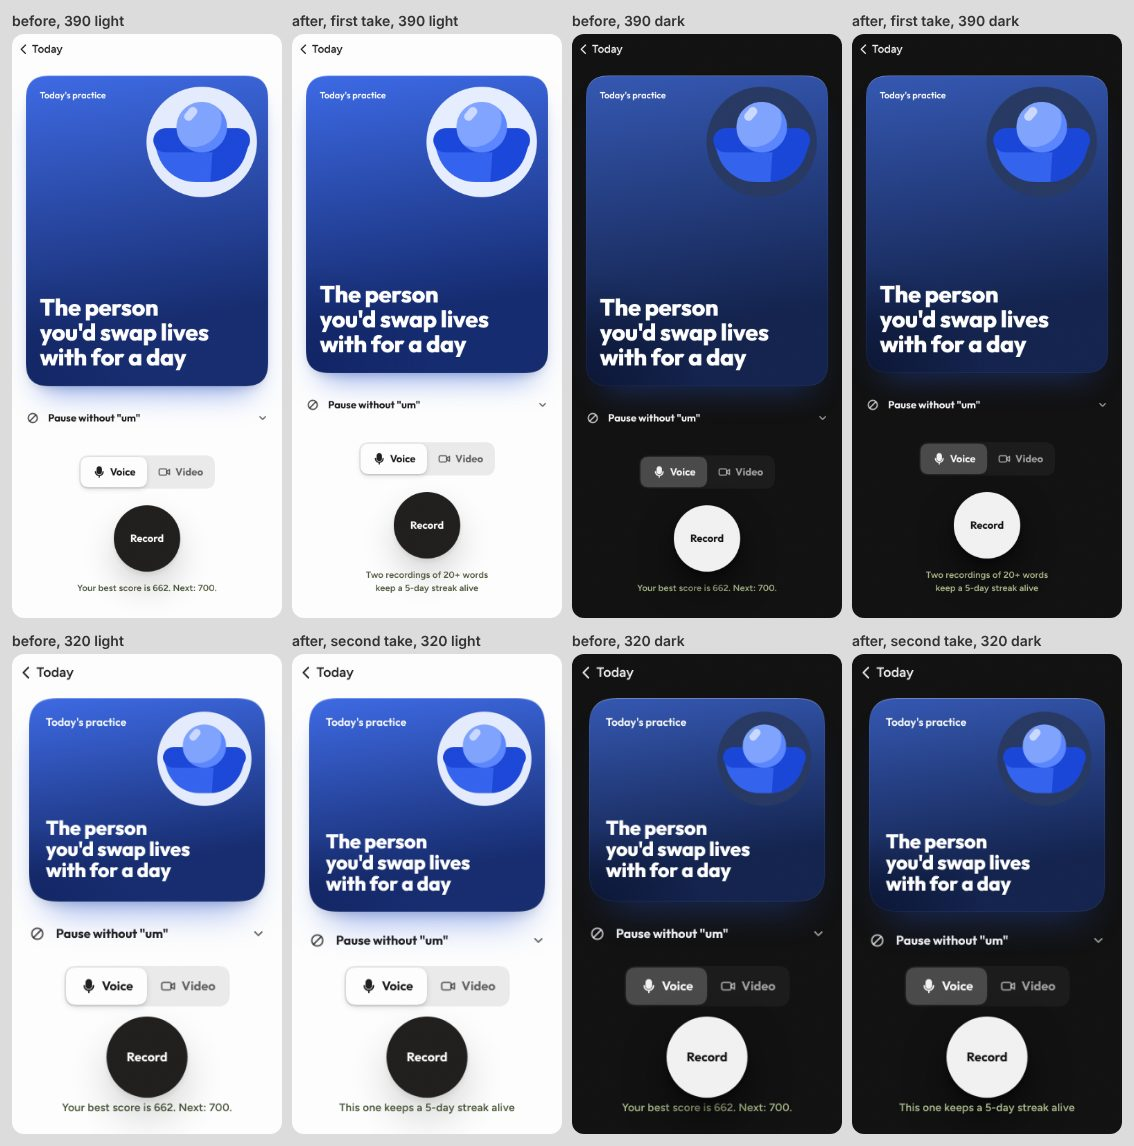
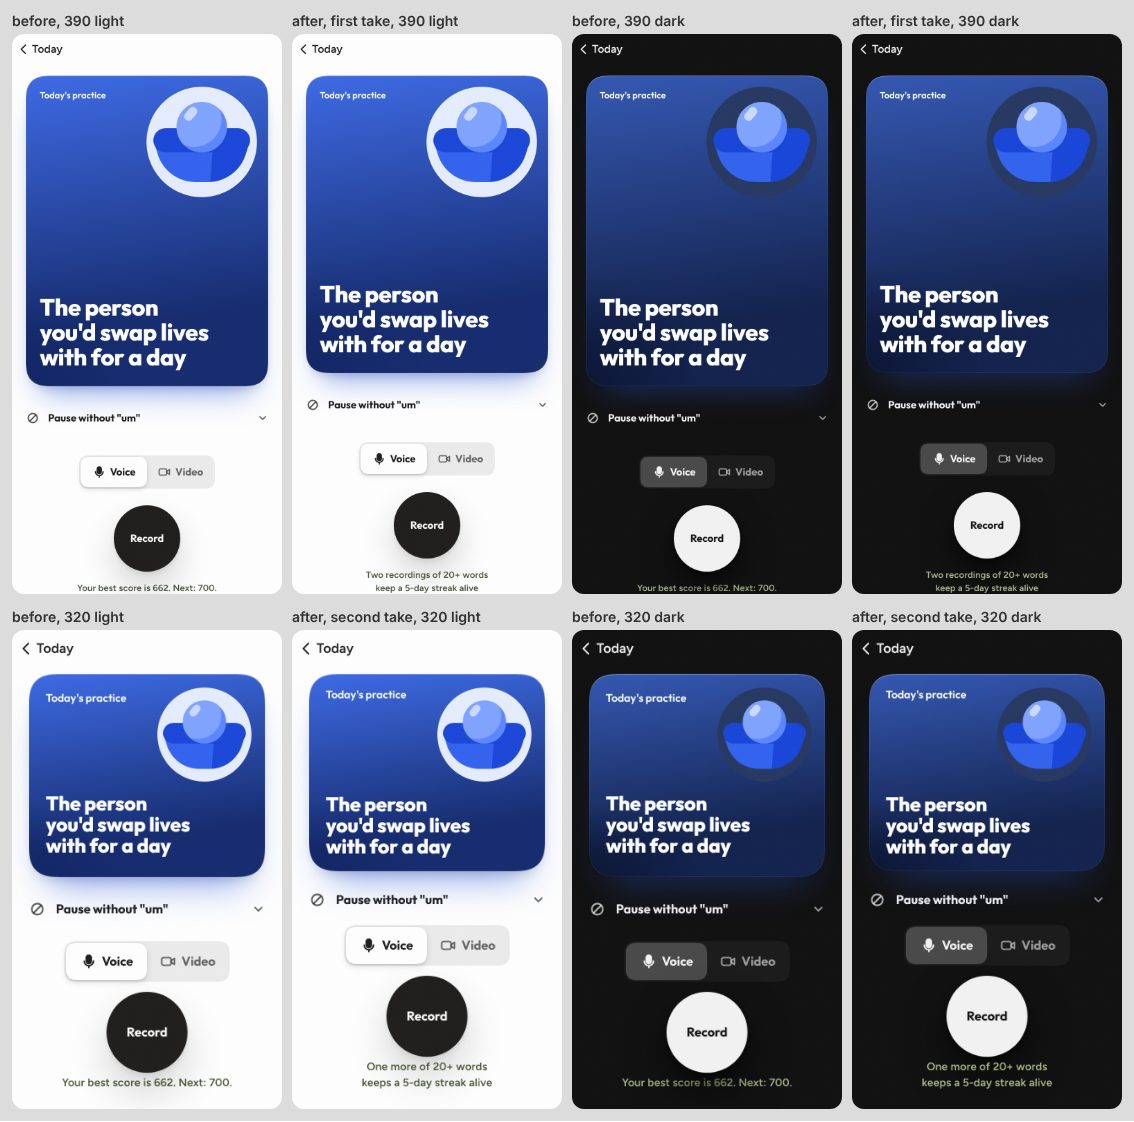
A game's idle screen keeps Record and the line under it on a 320x568 screen
A game's 700pt steps (block foot 16, stack 16 over the instruction) had
outranked the under-600pt savings #522 gave the daily stack, so on Q&A
with a three-line question Record ended at 578 and the two-line line
under it at 620 of 568. Under 600pt: the 700 steps stop at 600 (a range
query), the level's row sits 4 under the tiles, a game's foot is 12, the
instruction steps to 17 and the topic card's head and foot are 16. At
320x568 every game's line now ends at 556 and nothing scrolls; the daily
stack's at 548, also without a scroll.

look-scored-used gains game-qa, game-rush, game-interview and game-new
(an iPhone's UA, no plaque for game-new); it fails a line under the
first screen and a game screen that scrolls. Sheets: game-idle-320.jpg
(new), and limit-line, repair-under-record and repair-over-limit
re-shot for the card's new padding and the repair's second line.

Claude-Session: https://claude.ai/code/session_01KQpi1wPL2sdqgKKvt94vrP

diff --git a/app/rep/page.tsx b/app/rep/page.tsx
@@ -2356,8 +2356,12 @@ function RepScreen() {
            the same steps on a layout under 360 wide, which is what an
            iPhone lays out once its text size is followed (#451: 390x844
            two steps up is 320x692): the instruction and the tactics run
-           a line deeper each there, on a screen that is shorter too. */
-        game ? "[@media(max-height:700px)]:pb-5" : ""
+           a line deeper each there, on a screen that is shorter too.
+           The 700pt steps stop at 600: under it (320x568) a game takes
+           the idle stack's own savings and a foot of 12 (the psych
+           review: the 700 rule had outranked them, and the line under
+           Record ran off the first screen). */
+        game ? "[@media(min-height:601px)_and_(max-height:700px)]:pb-5 [@media(max-height:600px)]:pb-3" : ""
       }`}
     >
       {/* D50: the ground is the plain ground. The amber glow under
@@ -2402,7 +2406,7 @@ function RepScreen() {
       <div
         className={
           phase === "idle"
-            ? `flex flex-1 flex-col justify-center pb-8 max-[359px]:pb-4 [@media(max-height:600px)]:pb-2 ${game ? "[@media(max-height:700px)]:pb-4" : ""}`
+            ? `flex flex-1 flex-col justify-center pb-8 max-[359px]:pb-4 [@media(max-height:600px)]:pb-2 ${game ? "[@media(min-height:601px)_and_(max-height:700px)]:pb-4" : ""}`
             : ""
         }
       >
@@ -2454,13 +2458,18 @@ function RepScreen() {
       {phase === "idle" && (
         /* Under 600pt tall (320x568) the stack steps in where it has air
            to give: 4 over the instruction, 8 under the tiles, 8 inside
-           each tile (TipStrip) and 4 under the topic (TopicCard), so a
-           two-line line under Record (SCORED_USED) stands whole on the
-           first screen (the review of build 5). */
-        <div className={`mt-6 max-[359px]:mt-4 [@media(max-height:600px)]:mt-3 ${game ? "[@media(max-height:700px)]:mt-4" : ""}`}>
+           each tile (TipStrip) and 8 in the topic's head and foot
+           (TopicCard), so a two-line line under Record (SCORED_USED, the
+           repair's) stands whole on the first screen (the review of
+           build 5). The instruction steps to 17 there, and a game's
+           700pt steps stop at 600 so none of this is outranked (the
+           psych review: a game's stack, its level's row and a
+           three-line question, put Record itself under the first
+           screen, and the line 52px under it). */
+        <div className={`mt-6 max-[359px]:mt-4 [@media(max-height:600px)]:mt-3 ${game ? "[@media(min-height:601px)_and_(max-height:700px)]:mt-4" : ""}`}>
           {/* recording-15: the instruction over the three tactics, a clear
               step above their 14px labels rather than a fourth label. */}
-          {!ready && <h2 className="font-display text-lead font-bold">{doLine}</h2>}
+          {!ready && <h2 className="font-display text-lead font-bold [@media(max-height:600px)]:text-detail">{doLine}</h2>}
           {/* The best at this level, once there is one (M4), as a plaque
               (Timothy, 6 Nov: an important milestone). Its row opens on
               the base spring once the ladder is read, so the tips glide
@@ -2522,7 +2531,7 @@ function RepScreen() {
           carries the level, so the row steps out. */}
       {game && level !== null && phase === "idle" && (
         <LevelControl
-          className="mt-3 [@media(max-height:700px)]:mt-2"
+          className="mt-3 [@media(min-height:601px)_and_(max-height:700px)]:mt-2 [@media(max-height:600px)]:mt-1"
           level={level}
           open={ladder?.open ?? null}
           xp={config.xpMultiplier}

diff --git a/components/rep/TopicCard.tsx b/components/rep/TopicCard.tsx
@@ -340,10 +340,11 @@ export function TopicCard({
          recording screen's column gives it that height, 168 to 300.
          Under 600pt tall (320x568), and under 360 wide (a followed
          text size, #451), it may be as short as its words, so Record
-         rises into view (F12); under 600pt its foot is 20, as its head
-         is, for the line under Record (the review of build 5). */
+         rises into view (F12); under 600pt its head and foot are 16,
+         for the line under Record (the review of build 5; the psych
+         review: a game's stack with a three-line question). */
       className={`family-fill vt-shared flex flex-col p-5 ${
-        compact ? "" : "min-h-[168px] flex-1 justify-between pb-6 max-[359px]:min-h-0 [@media(max-height:600px)]:min-h-0 [@media(max-height:600px)]:pb-5"
+        compact ? "" : "min-h-[168px] flex-1 justify-between pb-6 max-[359px]:min-h-0 [@media(max-height:600px)]:min-h-0 [@media(max-height:600px)]:pt-4 [@media(max-height:600px)]:pb-4"
       }`}
     >
       {art && (
